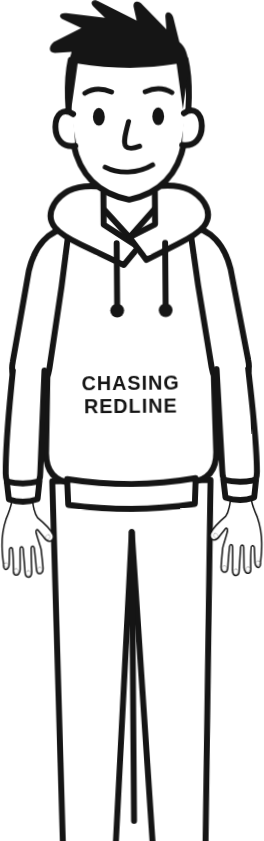
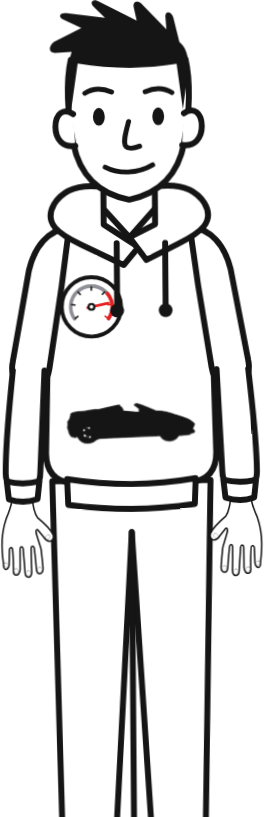
Put the channel's mark on the hoodie instead of its name
The character wore "CHASING REDLINE" in type, which at the size he actually
appears -- a third of the frame's width in a video, less in a thumbnail --
is two illegible grey lines. He now wears the logo: the tachometer badge
high on the left chest and a car across the front.

Three things were measured off the render rather than eyeballed, each after
getting it wrong first.

The badge started on the sleeve, where it hung over both edges of an arm
that is only 29 units across. Moved to the chest, it landed straight on the
right drawstring toggle; the strings sit at x 173-182 and 221-231 and stop
at y=333, so it went below them, then back up and left once the brief was
higher. It now clips the left cord at the rim, which is what a drawstring
lying over a print looks like.

It is also the light version. The hood is drawn after the torso, so the
cord was always passing over the badge -- but a black cord and a black
toggle on a near-black disc simply vanished, leaving what read as a hole
punched in the hoodie rather than a logo with a string across it.

The car is a solid silhouette, not the banner's two-tone treatment: at
chest size the wheels and glass are finer than the hoodie's own outline and
grey out into a blur. It is embedded at 520px, twice what the chest renders
at, which keeps 17KB out of each rig rather than the 27KB the full-size
cut-out wanted.

Both rigs updated, and the thumbnail's narrator asset re-rendered from the
v21 rig so the still matches the video.
[…]

diff --git a/narrator/narrator-rig-v21.html b/narrator/narrator-rig-v21.html
@@ -89,7 +89,7 @@
           <g id="legs"><path class="outline" d="M110 498C112 607 115 734 118 870C134 875 153 875 171 871L190 550L209 871C227 875 246 875 262 870C265 734 268 607 270 498Z"/><path class="line" d="M190 550V842"/></g>
           <!-- Torso is painted before the articulated arms so conversational
                gestures and hands remain visible in front of the hoodie. -->
-          <g id="torso"><path class="outline" d="M128 242C145 231 161 226 174 224H206C219 226 235 231 252 242C268 254 274 276 272 305L276 470C276 489 267 498 251 500C211 505 169 505 129 500C113 498 104 489 104 470L108 305C106 276 112 254 128 242Z"/><path class="outline" d="M125 496C167 503 213 503 255 496L254 522C212 528 168 528 126 522Z"/><text x="190" y="406" text-anchor="middle" fill="#151515" font-family="Arial,sans-serif" font-size="20" font-weight="800" letter-spacing="1">CHASING</text><text x="190" y="430" text-anchor="middle" fill="#151515" font-family="Arial,sans-serif" font-size="20" font-weight="800" letter-spacing="1">REDLINE</text></g>
[1 lines of base64/hex data omitted]
           <!-- Articulated left arm: shoulder group contains an independent elbow/forearm group. -->
           <g id="left-upper-arm">
             <path class="outline" d="M129 242C108 244 94 260 88 285L71 377C68 391 75 401 86 403C98 405 106 397 108 384L121 301Z"/>

diff --git a/narrator/narrator-rig-v4.html b/narrator/narrator-rig-v4.html
@@ -79,7 +79,7 @@
           <g id="legs"><path class="outline" d="M110 498C112 607 115 734 118 870C134 875 153 875 171 871L190 550L209 871C227 875 246 875 262 870C265 734 268 607 270 498Z"/><path class="line" d="M190 550V842"/></g>
           <!-- Torso is painted before the articulated arms so conversational
                gestures and hands remain visible in front of the hoodie. -->
-          <g id="torso"><path class="outline" d="M128 242C145 231 161 226 174 224H206C219 226 235 231 252 242C268 254 274 276 272 305L276 470C276 489 267 498 251 500C211 505 169 505 129 500C113 498 104 489 104 470L108 305C106 276 112 254 128 242Z"/><path class="outline" d="M125 496C167 503 213 503 255 496L254 522C212 528 168 528 126 522Z"/><text x="190" y="406" text-anchor="middle" fill="#151515" font-family="Arial,sans-serif" font-size="20" font-weight="800" letter-spacing="1">CHASING</text><text x="190" y="430" text-anchor="middle" fill="#151515" font-family="Arial,sans-serif" font-size="20" font-weight="800" letter-spacing="1">REDLINE</text></g>
[1 lines of base64/hex data omitted]
           <!-- Articulated left arm: shoulder group contains an independent elbow/forearm group. -->
           <g id="left-upper-arm">
             <path class="outline" d="M129 242C108 244 94 260 88 285L71 377C68 391 75 401 86 403C98 405 106 397 108 384L121 301Z"/>
